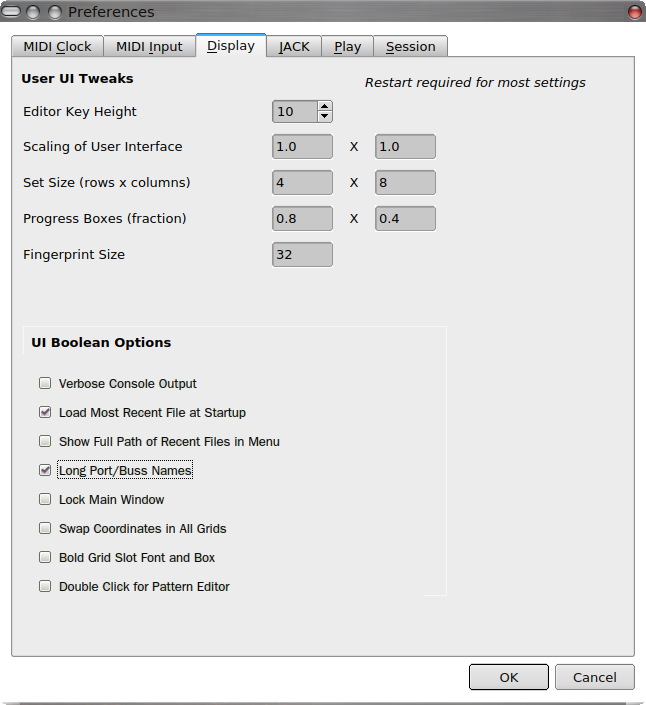
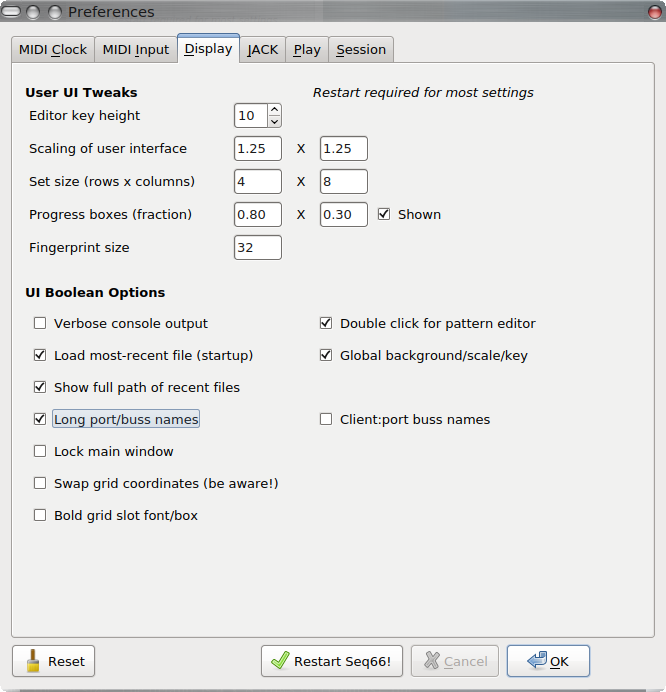
Interim check-in.

diff --git a/libseq66/src/play/performer.cpp b/libseq66/src/play/performer.cpp
@@ -24,7 +24,7 @@
  * \library       seq66 application
  * \author        Chris Ahlstrom and others
  * \date          2018-11-12
- * \updates       2022-06-28
+ * \updates       2022-07-21
  * \license       GNU GPLv2 or above
  *
  *  Also read the comments in the Seq64 version of this module, perform.
@@ -1257,7 +1257,7 @@ performer::remove_sequence (seq::number seqno)
     if (result)
     {
         seq::number buttonno = seqno - playscreen_offset();
-        send_seq_event(buttonno, midicontrolout::seqaction::remove);
+        send_seq_event(buttonno, midicontrolout::seqaction::removed);
         notify_sequence_change(seqno, change::recreate);            /* NEW */
         modify();
     }
@@ -2428,6 +2428,10 @@ performer::announce_mutes ()
  *  parameter set to false, in order to keep the slot number below the
  *  set-size, otherwise a crash occurs.
  *
+ * Issue #89:
+ *
+ *      Had not added code to send the "queue" status!  Fixed.
+ *
  * \param s
  *      Provides the pointer to the sequence.
  *
@@ -2446,18 +2450,23 @@ performer::announce_sequence (seq::pointer s, seq::number sn)
 {
     bool ok = not_nullptr(s);
     midicontrolout::seqaction what;
-
-    /*
-     * infoprintfunc();
-     */
-
     if (ok)
     {
-        what = s->playing() ?
-            midicontrolout::seqaction::arm : midicontrolout::seqaction::mute ;
+        if (s->playing())
+        {
+            what = s->get_queued() ?
+                midicontrolout::seqaction::queued :
+                midicontrolout::seqaction::armed ;
+        }
+        else if (s->get_queued())
+            what = midicontrolout::seqaction::queued;
+        else if (s->one_shot())
+            what = midicontrolout::seqaction::queued;
+        else
+            what = midicontrolout::seqaction::muted;
     }
     else
-        what = midicontrolout::seqaction::remove;
+        what = midicontrolout::seqaction::removed;
 
     send_seq_event(sn, what);
     return true;
@@ -5395,9 +5404,16 @@ performer::sequence_playing_change (seq::number seqno, bool on)
 {
     bool qinprogress = midi_control_in().is_queue();
     mapper().sequence_playscreen_change(seqno, on, qinprogress);
+
+    /* TEST CODE EXPERIMENTAL */
+
+//  seq::pointer s = get_sequence(seqno);
+//  announce_sequence(s, mapper().seq_to_offset(*s));
+
     /*
      * Too much maybe: notify_trigger_change(seqno, change::no);
      */
+
     return true;
 }
 

diff --git a/doc/latex/tex/menu.tex b/doc/latex/tex/menu.tex
@@ -6,7 +6,7 @@
 % \library     Documents
 % \author      Chris Ahlstrom
 % \date        2015-08-31
-% \update      2022-05-20
+% \update      2022-07-21
 % \version     $Revision$
 % \license     $XPC_GPL_LICENSE$
 %
@@ -883,8 +883,14 @@
    \itempar{Progress Boxes}{progress-box size}
    Provides a way to change the size of the progress box in each button.
    Values are width and height fractions (up to 1.0) re the button size.
-   If set to 0, the progress box (and its internal pattern color) are not
-   drawn.
+   This is a 'usr' option.
+
+   \itempar{Progress Box Shown}{progress-box shown}
+   If the \textbf{Shown} check-box
+   (not shown in this old diagram)
+   is \textsl{unchecked}, then the progress boxes and pattern color are not
+   shown.
+   This is a 'usr' option.
 
    \itempar{Fingerprint Size}{fingerprint size}
    This value, if set from 32 to 128, indicates the number of events above
@@ -897,8 +903,8 @@
    console/terminal. It will also increase the amount of data logged to the log
    file, if activated.
 
-   \itempar{Load Most Recent File at Startup}{load most-recent}
-   The file at the top of the \texttt{[recent-files]}
+   \itempar{Load Most Recent File (startup)}{load most-recent}
+   If checked, the file at the top of the \texttt{[recent-files]}
    list in the 'rc' file is loaded at startup.
 
    \itempar{Show Full Path of Recent Files in Menu}{full paths}
@@ -944,6 +950,23 @@
 
    It is the same as the \texttt{progress-bar-thick = true} option in the 'usr'
    file. See \sectionref{subsubsec:usr_file_user_interface_settings}.
+
+   \itempar{Double click for pattern editor}{grid!bold}
+   \index{double-click!pattern slot}
+   If set, a double-click on a grid button brings up the pattern for editing.
+   Disable it if the effect is confusing.
+
+   \itempar{Global background/scale/key}{globals!background etc.}
+   \index{global pattern setting!background}
+   \index{global pattern setting!key}
+   \index{global pattern setting!scale}
+   If set, setting the background sequence, scale to show, or the key of the
+   track will apply to all pattern windows that are opened.
+
+   \itempar{Client:port buss names}{buss!naming}
+   \index{bus!naming}
+   If checked the MIDI engine's "client:port" numbers are shown in the port
+   listings.
  
 \paragraph{Menu / Edit / Preferences / JACK}
 \label{paragraph:menu_edit_preferences_jack}

diff --git a/libseq66/src/cfg/midicontrolfile.cpp b/libseq66/src/cfg/midicontrolfile.cpp
@@ -25,7 +25,7 @@
  * \library       seq66 application
  * \author        Chris Ahlstrom
  * \date          2018-11-13
- * \updates       2022-01-09
+ * \updates       2022-07-21
  * \license       GNU GPLv2 or above
  *
  *  This class handles the 'ctrl' file.
@@ -518,10 +518,10 @@ midicontrolfile::parse_midi_control_out (std::ifstream & file)
                  *  Offset to avoid the deprecated enabled and channel values.
                  */
 
-                mco.set_seq_event(i, midicontrolout::seqaction::arm, a);
-                mco.set_seq_event(i, midicontrolout::seqaction::mute, b);
-                mco.set_seq_event(i, midicontrolout::seqaction::queue, c);
-                mco.set_seq_event(i, midicontrolout::seqaction::remove, d);
+                mco.set_seq_event(i, midicontrolout::seqaction::armed, a);
+                mco.set_seq_event(i, midicontrolout::seqaction::muted, b);
+                mco.set_seq_event(i, midicontrolout::seqaction::queued, c);
+                mco.set_seq_event(i, midicontrolout::seqaction::removed, d);
                 if (i < (sequences - 1) && ! next_data_line(file))
                 {
                     make_error_message("midi-control-out", "insufficient data");
@@ -1015,6 +1015,8 @@ midicontrolfile::write_midi_control_out (std::ofstream & file)
 "\n"
 "[midi-control-out]\n"
 "\n"
+"This section determines how pattern statuses are to be displayed.\n"
+"\n"
 "#   ---------------- Pattern or device-button number)\n"
 "#  |     ----------- MIDI status+channel (eg. Note On)\n"
 "#  |    |    ------- data 1 (eg. note number)\n"
@@ -1022,12 +1024,12 @@ midicontrolfile::write_midi_control_out (std::ofstream & file)
 "#  |    |   | |\n"
 "#  v    v   v v\n"
 "# 31 [ 0x00 0 0 ] [ 0x00 0 0 ] [ 0x00 0 0 ] [ 0x00 0 0]\n"
-"#      Arm          Mute         Queue        Delete\n"
+"#      Armed        Muted        (Un)queued   Empty/Deleted\n"
 "#\n"
 "# A test of the status byte determines the enabled status, and channel is\n"
 "# included in the status.\n"
 "\n"
-            ;
+            ;   /* heh heh */
 
         if (mco.is_blank())
         {

diff --git a/libseq66/src/ctrl/midicontrolout.cpp b/libseq66/src/ctrl/midicontrolout.cpp
@@ -25,7 +25,7 @@
  * \library       seq66 application
  * \author        Igor Angst (with refactoring by C. Ahlstrom)
  * \date          2018-03-28
- * \updates       2022-03-03
+ * \updates       2022-07-21
  * \license       GNU GPLv2 or above
  *
  * The class contained in this file encapsulates most of the functionality to
@@ -159,11 +159,11 @@ seqaction_to_string (midicontrolout::seqaction a)
 {
     switch (a)
     {
-    case midicontrolout::seqaction::arm:    return "arm";
-    case midicontrolout::seqaction::mute:   return "mute";
-    case midicontrolout::seqaction::queue:  return "queue";
-    case midicontrolout::seqaction::remove: return "delete";
-    default:                                return "unknown";
+    case midicontrolout::seqaction::armed:          return "Armed";
+    case midicontrolout::seqaction::muted:          return "Muted";
+    case midicontrolout::seqaction::queued:         return "Queued";
+    case midicontrolout::seqaction::removed:        return "Empty";
+    default:                                        return "Unknown";
     }
 }
 
@@ -285,7 +285,7 @@ midicontrolout::clear_sequences (bool flush)
     if (is_enabled())
     {
         for (int seq = 0; seq < screenset_size(); ++seq)
-            send_seq_event(seq, midicontrolout::seqaction::remove, false);
+            send_seq_event(seq, midicontrolout::seqaction::removed, false);
 
         if (flush && not_nullptr(m_master_bus))
             m_master_bus->flush();

diff --git a/libseq66/include/ctrl/midicontrolout.hpp b/libseq66/include/ctrl/midicontrolout.hpp
@@ -28,7 +28,7 @@
  * \library       seq66 application
  * \author        Igor Angst (major modifications by C. Ahlstrom)
  * \date          2018-03-28
- * \updates       2021-11-27
+ * \updates       2022-07-21
  * \license       GNU GPLv2 or above
  *
  * The class contained in this file encapsulates most of the
@@ -81,8 +81,8 @@ public:
      * \var queue
      *      Sequence is queued.
      *
-     * \var delete
-     *      Sequence is deleted from its slot.
+     * \var removed
+     *      Sequence is deleted from its slot, or the slot is already empty.
      *
      * \var max
      *      Marker for the maximum value of actions.
@@ -90,10 +90,10 @@ public:
 
     enum class seqaction
     {
-        arm,
-        mute,
-        queue,
-        remove,
+        armed,
+        muted,
+        queued,
+        removed,
         max
     };
 
@@ -294,7 +294,7 @@ public:
 
     static void seqaction_range (int & minimum, int & maximum)
     {
-        minimum = static_cast<int>(midicontrolout::seqaction::arm);
+        minimum = static_cast<int>(midicontrolout::seqaction::armed);
         maximum = static_cast<int>(midicontrolout::seqaction::max);
     }
 

diff --git a/doc/latex/tex/configuration.tex b/doc/latex/tex/configuration.tex
@@ -6,7 +6,7 @@
 % \library     Documents
 % \author      Chris Ahlstrom
 % \date        2021-01-18
-% \update      2022-05-25
+% \update      2022-07-21
 % \version     $Revision$
 % \license     $XPC_GPL_LICENSE$
 %
@@ -1505,6 +1505,7 @@
       fingerprint-size = 128
       progress-box-width = 0.8
       progress-box-height = 0.4
+      progress-box-shown = true
       progress-note-min = 20
       progress-note-max = 100
       lock-main-window = true
@@ -1576,9 +1577,14 @@
    It is purely a user preference.
    The width ranges from 0.5 to 1.0 (full size), with a default of 0.8.
    The height ranges from 0.1 to 1.0 (full size), with a default 0f 0.3.
-   If either is 0, then the box isn't drawn, and the pattern appears directly
-   on the button.
    Try setting both the width and height to 0.9 for an interesting effect.
+
+%  If either is 0, then the box isn't drawn, and the pattern appears directly
+%  on the button.
+
+   \index{progress box!shown}
+   If  \texttt{progress-box-shown} is false, then the progress boxes are not
+   drawn, and the pattern appears directly on the button.
 
    \index{progress-note-min}
    \index{progress!note-min}

diff --git a/seq_qt5/src/qloopbutton.cpp b/seq_qt5/src/qloopbutton.cpp
@@ -500,6 +500,11 @@ qloopbutton::reupdate (bool all)
  *  Note that we first call QPushButton::paintEvent(pev) to make sure that the
  *  click highlights/unhighlight this checkable button.  And this call must be
  *  done first, otherwise the application segfaults.
+ *
+ * Issue #89:
+ *
+ *      Added showing "Unqueued" if queueing enabled while the pattern was
+ *      playing.
  */
 
 void
@@ -578,7 +583,9 @@ qloopbutton::paintEvent (QPaintEvent * pev)
             painter.drawText(box, m_bottom_right.m_flags, title);
             set_checked(loop()->playing()); /* gets hot-key toggle to show  */
             if (loop()->playing())
-                title = "Armed";
+            {
+                title = loop()->get_queued() ? "Unqueued" : "Armed" ;
+            }
             else if (loop()->get_queued())
                 title = "Queued";
             else if (loop()->one_shot())

diff --git a/libseq66/src/cfg/rcfile.cpp b/libseq66/src/cfg/rcfile.cpp
@@ -708,8 +708,15 @@ rcfile::write ()
      * with blanks.
      */
 
+    ///// Work related to issue #89
+
+
     std::string mcfname = rc_ref().midi_control_filespec();
+
+    ////// if (rc_ref().auto_ctrl_save())
+
     ok = write_midi_control_file(mcfname, rc_ref());
+
     file << "\n"
 "# Provides a flag and file-name for MIDI-control I/O settings. '\"\"' means\n"
 "# no 'ctrl' file. If none, default keystrokes are used, with no MIDI control.\n"

diff --git a/doc/latex/tex/seq66-user-manual.tex b/doc/latex/tex/seq66-user-manual.tex
@@ -6,7 +6,7 @@
 % \library     Documents
 % \author      Chris Ahlstrom
 % \date        2015-11-01
-% \update      2022-07-05
+% \update      2022-07-21
 % \version     $Revision$
 % \license     $XPC_GPL_LICENSE$
 %
@@ -52,7 +52,7 @@
 
 \begin{document}
 
-\title{Seq66 User Manual 0.98.10}
+\title{Seq66 User Manual 0.98.11}
 \author{Chris Ahlstrom \\
    (\texttt{ahlstromcj@gmail.com})}
 \date{\today}
